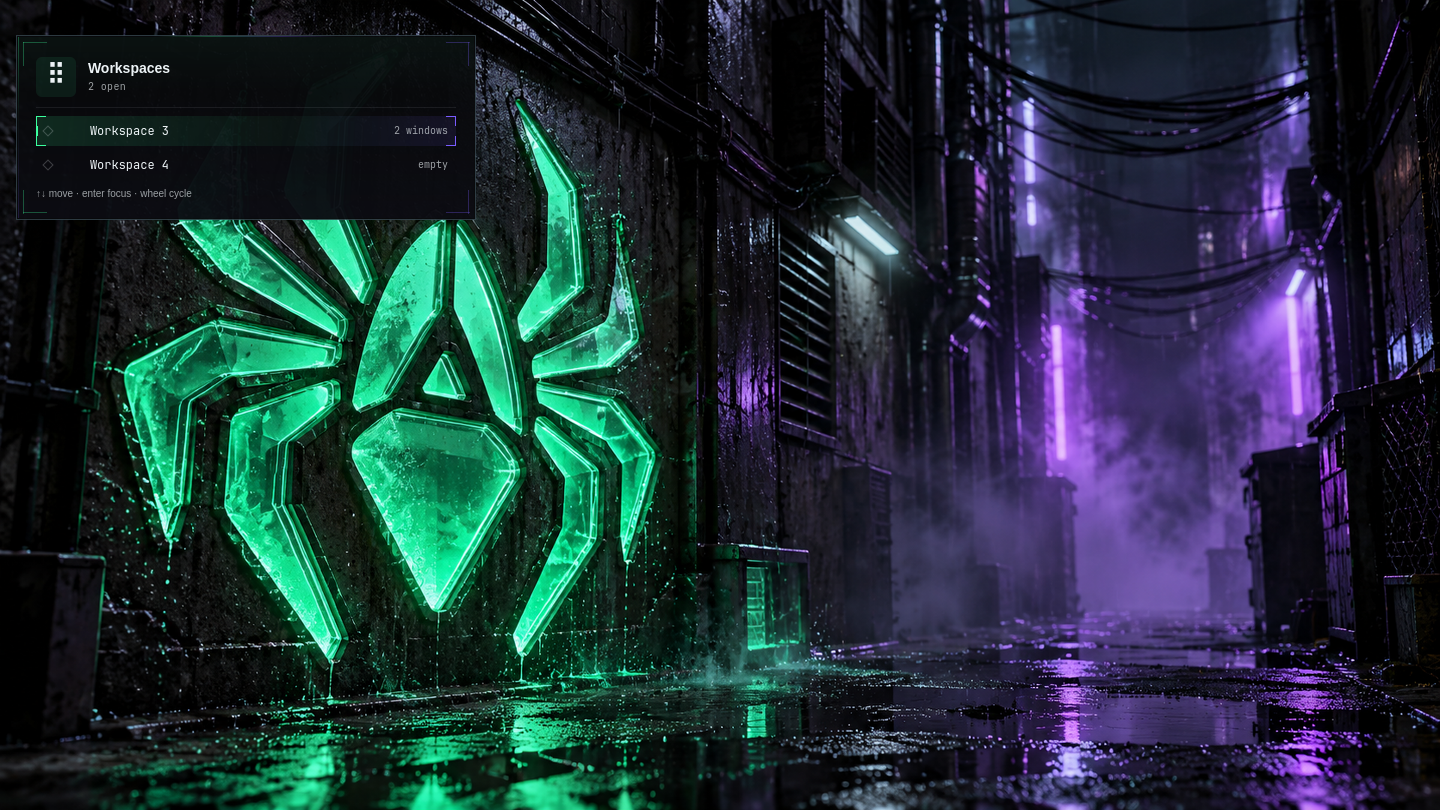
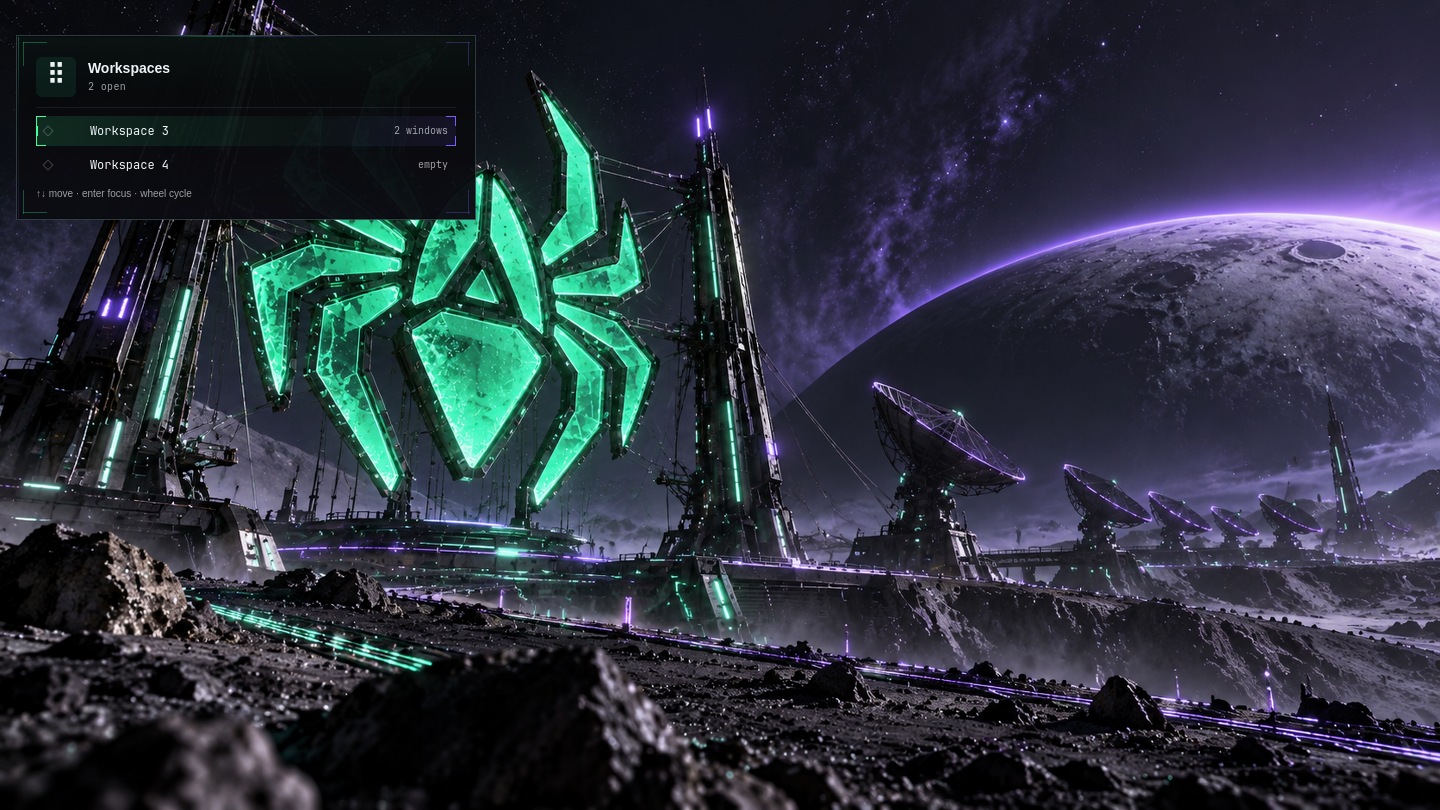
fix(docs): refresh workspace hero frame with lunar artwork

diff --git a/tests/qml/fixtures/workspaces-preview.qml b/tests/qml/fixtures/workspaces-preview.qml
@@ -19,7 +19,7 @@ ShellRoot {
       Image {
         id: wallpaper
         anchors.fill: parent
-        source: Quickshell.env('ARANEA_SETTINGS_RENDER_ROOT') + '/backgrounds/00-default.png'
+        source: Quickshell.env('ARANEA_SETTINGS_RENDER_ROOT') + '/backgrounds/variants/lunar-weaver.png'
         fillMode: Image.PreserveAspectCrop
       }
       Rectangle {
